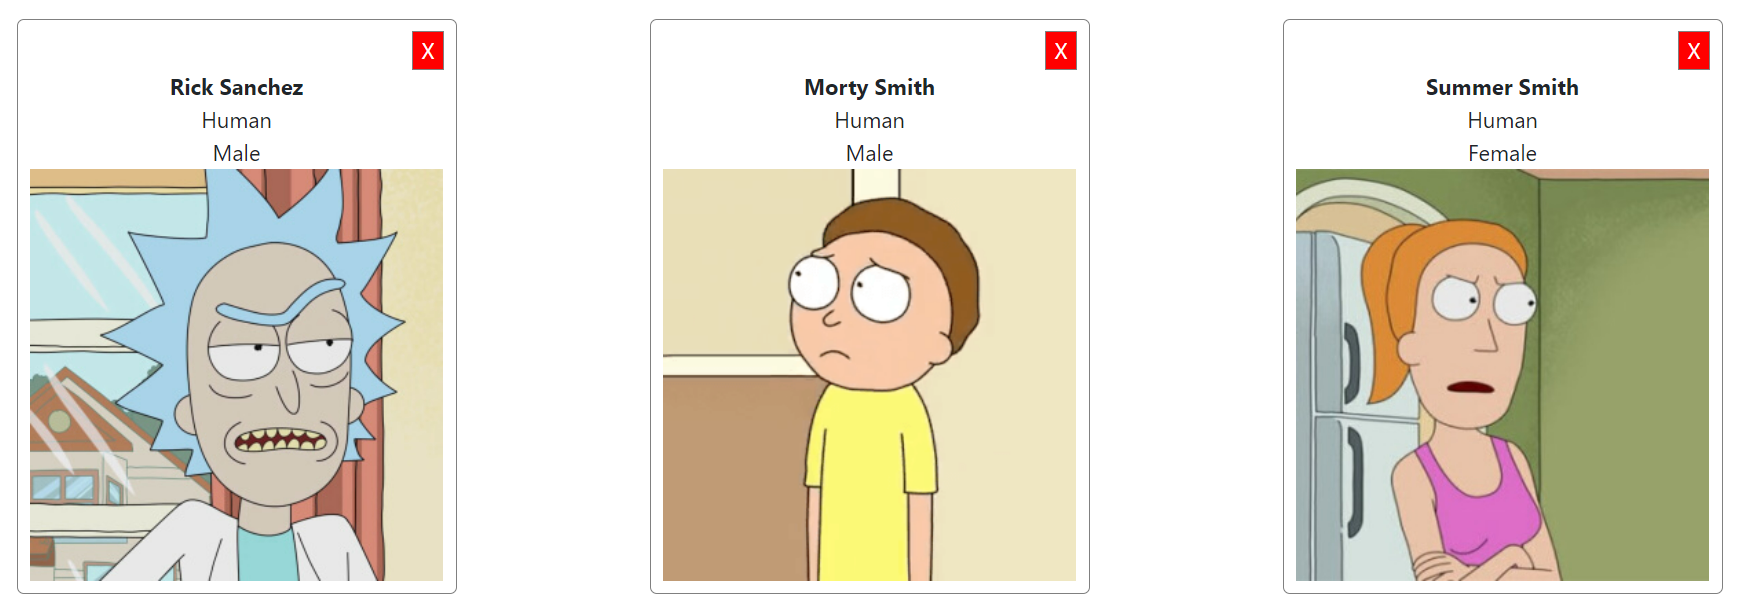
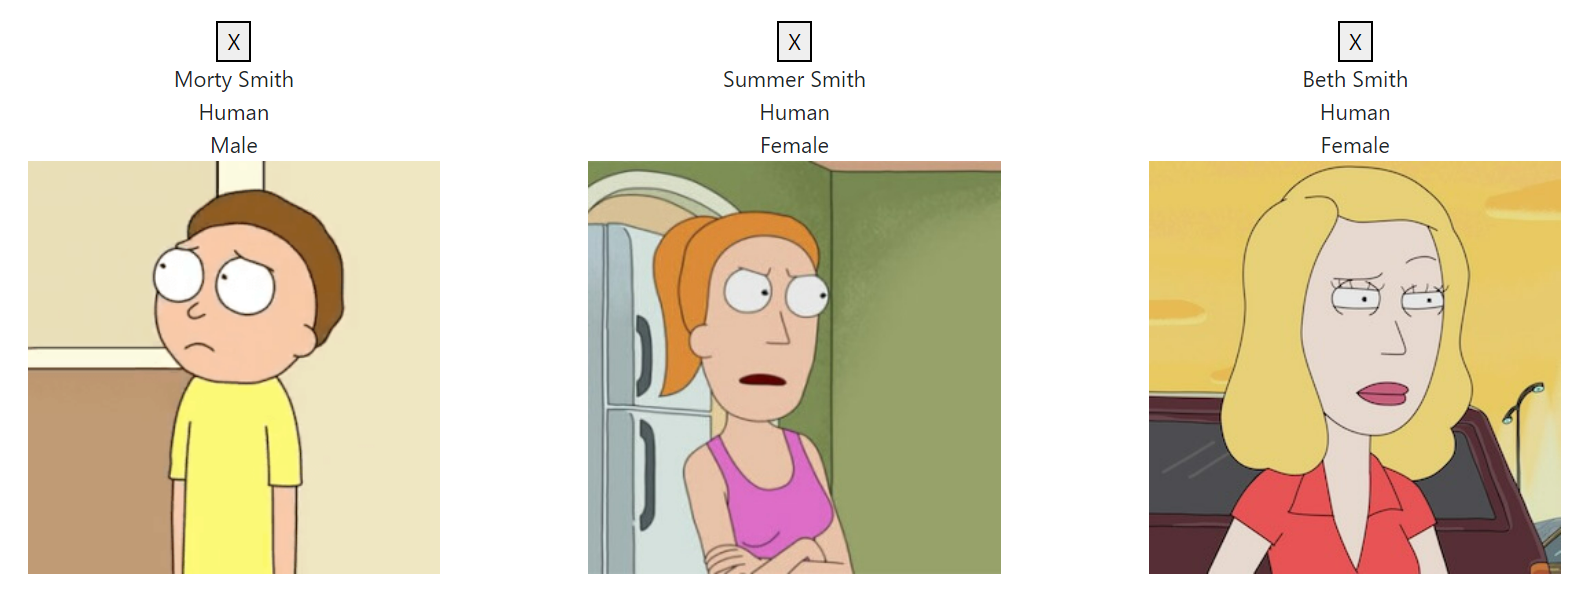
React-Intro_OK

diff --git a/06-React-Intro/homework/src/components/Card.jsx b/06-React-Intro/homework/src/components/Card.jsx
@@ -2,11 +2,11 @@
 export default function Card (props) {
   // acá va tu código
   return (
-    <div style={{ border: '1px solid gray', width: '320px', padding: '8px', margin: 'auto', borderRadius: '5px' }}>
-      <div style={{ display: 'flex', justifyContent: 'right' }}>
-        <button style={{ backgroundColor: 'red', color: 'white', border: '1px solid gray' }} onClick={() => props.onClose()}>X</button>
+    <div>
+      <div>
+        <button onClick={() => props.onClose()}>X</button>
       </div>
-      <div style={{ fontWeight: 'bold' }}>{props.name}</div>
+      <div>{props.name}</div>
       <div>{props.species}</div>
       <div>{props.gender}</div>
       <div><img alt={props.image} src={props.image} /></div>

diff --git a/06-React-Intro/homework/src/components/Cards.jsx b/06-React-Intro/homework/src/components/Cards.jsx
@@ -4,7 +4,7 @@ export default function Cards (props) {
   // acá va tu código
   // tip, podés usar un map
   return (
-    <div style={{ display: 'flex', justifyContent: 'space-evenly' }}>
+    <div>
       {props.characters.map((char) => (
         <Card
           key={char.name}
